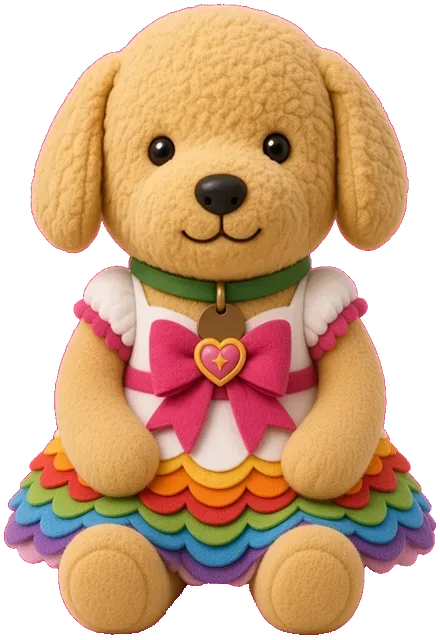
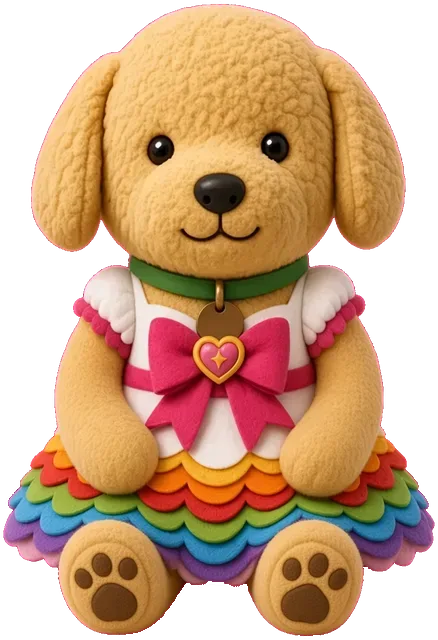
プリキュアは足の裏が見えるように座り、こたつは布団の入口から顔を出す (v28)

diff --git a/js/house.js b/js/house.js
@@ -5,10 +5,10 @@ const FURNITURE_SCALE = 1.8;
 // いすは 服を着たまま。ソファは 見本どおり 座った絵。
 // こたつは 2人、テントは 1人。どちらも 顔だけ。ベッド・ふろも 顔だけ。
 const SEATS = {
-  chair: { dy: -4, art: "chair", show: 0.82, scale: 0.78, slots: 1, pw: 78, pb: 16 },
-  sofa: { dy: -4, art: "sofa", scale: 1, slots: 1, ox: -7, pw: 74, pb: 8 },
-  kotatsu: { dy: -5, art: "kotatsu", scale: 1, slots: 2, spread: 5, pw: 42, pb: 12 },
-  tent: { dy: -4, art: "kotatsu", scale: 1, slots: 1, pw: 52, pb: 16 },
+  chair: { dy: -8, art: "chair", show: 0.82, scale: 0.78, slots: 1, pw: 46, pb: 18 },
+  sofa: { dy: -6, art: "sofa", scale: 1, slots: 1, ox: -9, pw: 58, pb: 10 },
+  kotatsu: { dy: -4, art: "kotatsu", scale: 1, slots: 2, spread: 3.6, ox: -3.4, pw: 52, pb: 2, behind: true },
+  tent: { dy: -1, art: "kotatsu", scale: 1, slots: 1, pw: 90, pb: 14 },
   bed: { dy: -7, art: "bed", scale: 1, slots: 1, pw: 40, pb: 30 },
   bath: { dy: -5, art: "bath", scale: 1, slots: 1, ox: -3, pw: 46, pb: 34 },
 };
@@ -208,7 +208,8 @@ const House = {
       .forEach((p) => {
         const spec = SEATS[p.item];
         for (let slot = 0; slot < spec.slots; slot++) {
-          const ox = spec.slots === 1 ? (spec.ox || 0) : slot === 0 ? -spec.spread : spec.spread;
+          const base = spec.ox || 0;
+          const ox = spec.slots === 1 ? base : base + (slot === 0 ? -spec.spread : spec.spread);
           spots.push({ uid: p.uid, item: p.item, slot, ox, x: p.x + ox, y: p.y + spec.dy, spec });
         }
       });
@@ -283,7 +284,23 @@ const House = {
       };
       w.peek.src = src;
       w.peek.hidden = false;
-      w.peek.style.width = spec.pw + "%";
+      const fitPeek = () => {
+        let scale = 1;
+        if (spec.art === "sofa" || spec.art === "chair") {
+          const aspect = w.peek.naturalHeight / (w.peek.naturalWidth || 1);
+          scale = 1.45 / aspect;
+          if (w.id === "ribbon") scale *= 1.08;
+        } else if (w.id === "pom" && !spec.behind) {
+          scale = 0.82;
+        }
+        if (spec.slots > 1 && w.seat) {
+          const mates = this.walkers.filter((o) => o.seat && o.seat.uid === w.seat.uid).length;
+          if (mates >= 2) scale *= 0.74;
+        }
+        w.peek.style.width = spec.pw * scale + "%";
+      };
+      w.peek.onload = fitPeek;
+      if (w.peek.complete && w.peek.naturalWidth) fitPeek();
       w.peek.style.bottom = spec.pb + "%";
       w.chara.style.visibility = "hidden";
     } else {
@@ -301,7 +318,7 @@ const House = {
     w.x = spot.x;
     w.y = spot.y;
     w.sitScale = spot.spec.scale;
-    w.sitZ = Math.round(spot.y - spot.spec.dy) + 2;
+    w.sitZ = spot.spec.behind ? Math.round(spot.y - spot.spec.dy) - 1 : Math.round(spot.y - spot.spec.dy) + 2;
     this.applySitVisual(w, spot.spec);
     // 立ち止まる 時間のあいだ だけ 入って、終わったら 歩きだす
     w.sitUntil = now + (1.2 + Math.random() * 2.8) * 1000;
@@ -344,10 +361,11 @@ const House = {
         this.endSit(w);
       } else {
         const spec = SEATS[place.item];
-        w.x = place.x + (w.seat.ox || 0);
+        const mates = this.walkers.filter((o) => o.seat && o.seat.uid === w.seat.uid);
+        w.x = place.x + (mates.length < 2 ? (spec.ox || 0) : (w.seat.ox || 0));
         w.y = place.y + spec.dy;
         w.sitScale = spec.scale;
-        w.sitZ = Math.round(place.y) + 2;
+        w.sitZ = spec.behind ? Math.round(place.y) - 1 : Math.round(place.y) + 2;
         this.applySitVisual(w, spec);
       }
     }
@@ -433,8 +451,8 @@ const House = {
     n.left = w.x.toFixed(2) + "%";
     n.top = w.y.toFixed(2) + "%";
     n.setProperty("--depth", this.depthScale(w.y, floor).toFixed(3));
-    // しゃべっている間は、ふきだしが かくれないように前に出す
-    n.zIndex = (w.sitZ || Math.round(w.y)) + (now < w.talkUntil ? 100 : 0);
+    const talking = now < w.talkUntil && !(w.seat && w.seat.spec && w.seat.spec.behind);
+    n.zIndex = (w.sitZ || Math.round(w.y)) + (talking ? 100 : 0);
   },
 
   tapWalker(w) {

diff --git a/sw.js b/sw.js
@@ -1,5 +1,5 @@
 // ファイルを更新したら CACHE の番号を上げる
-const CACHE = "manabi-ouchi-v27";
+const CACHE = "manabi-ouchi-v28";
 
 const FILES = [
   "./",
